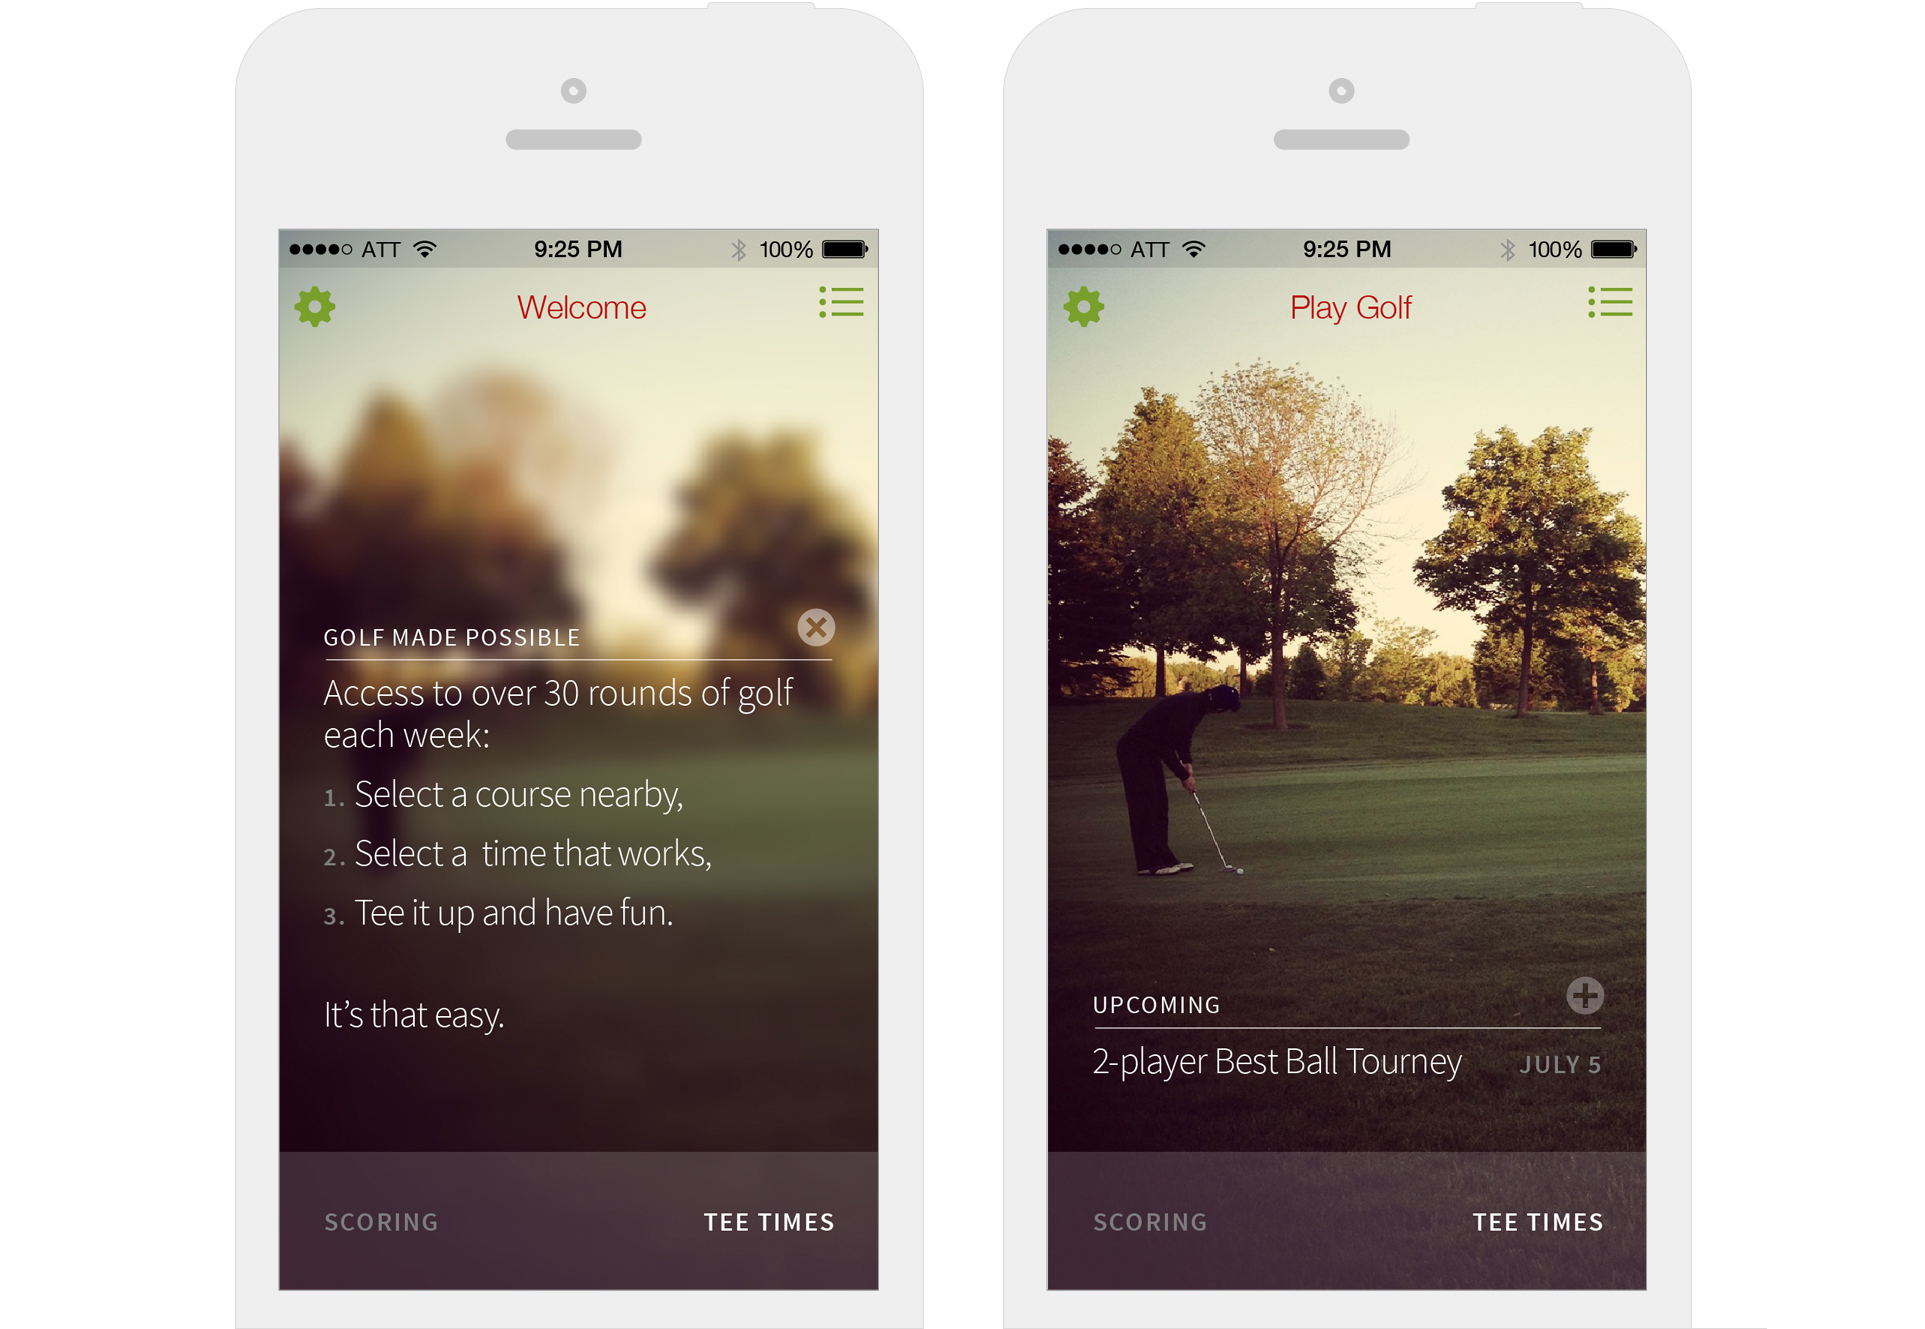
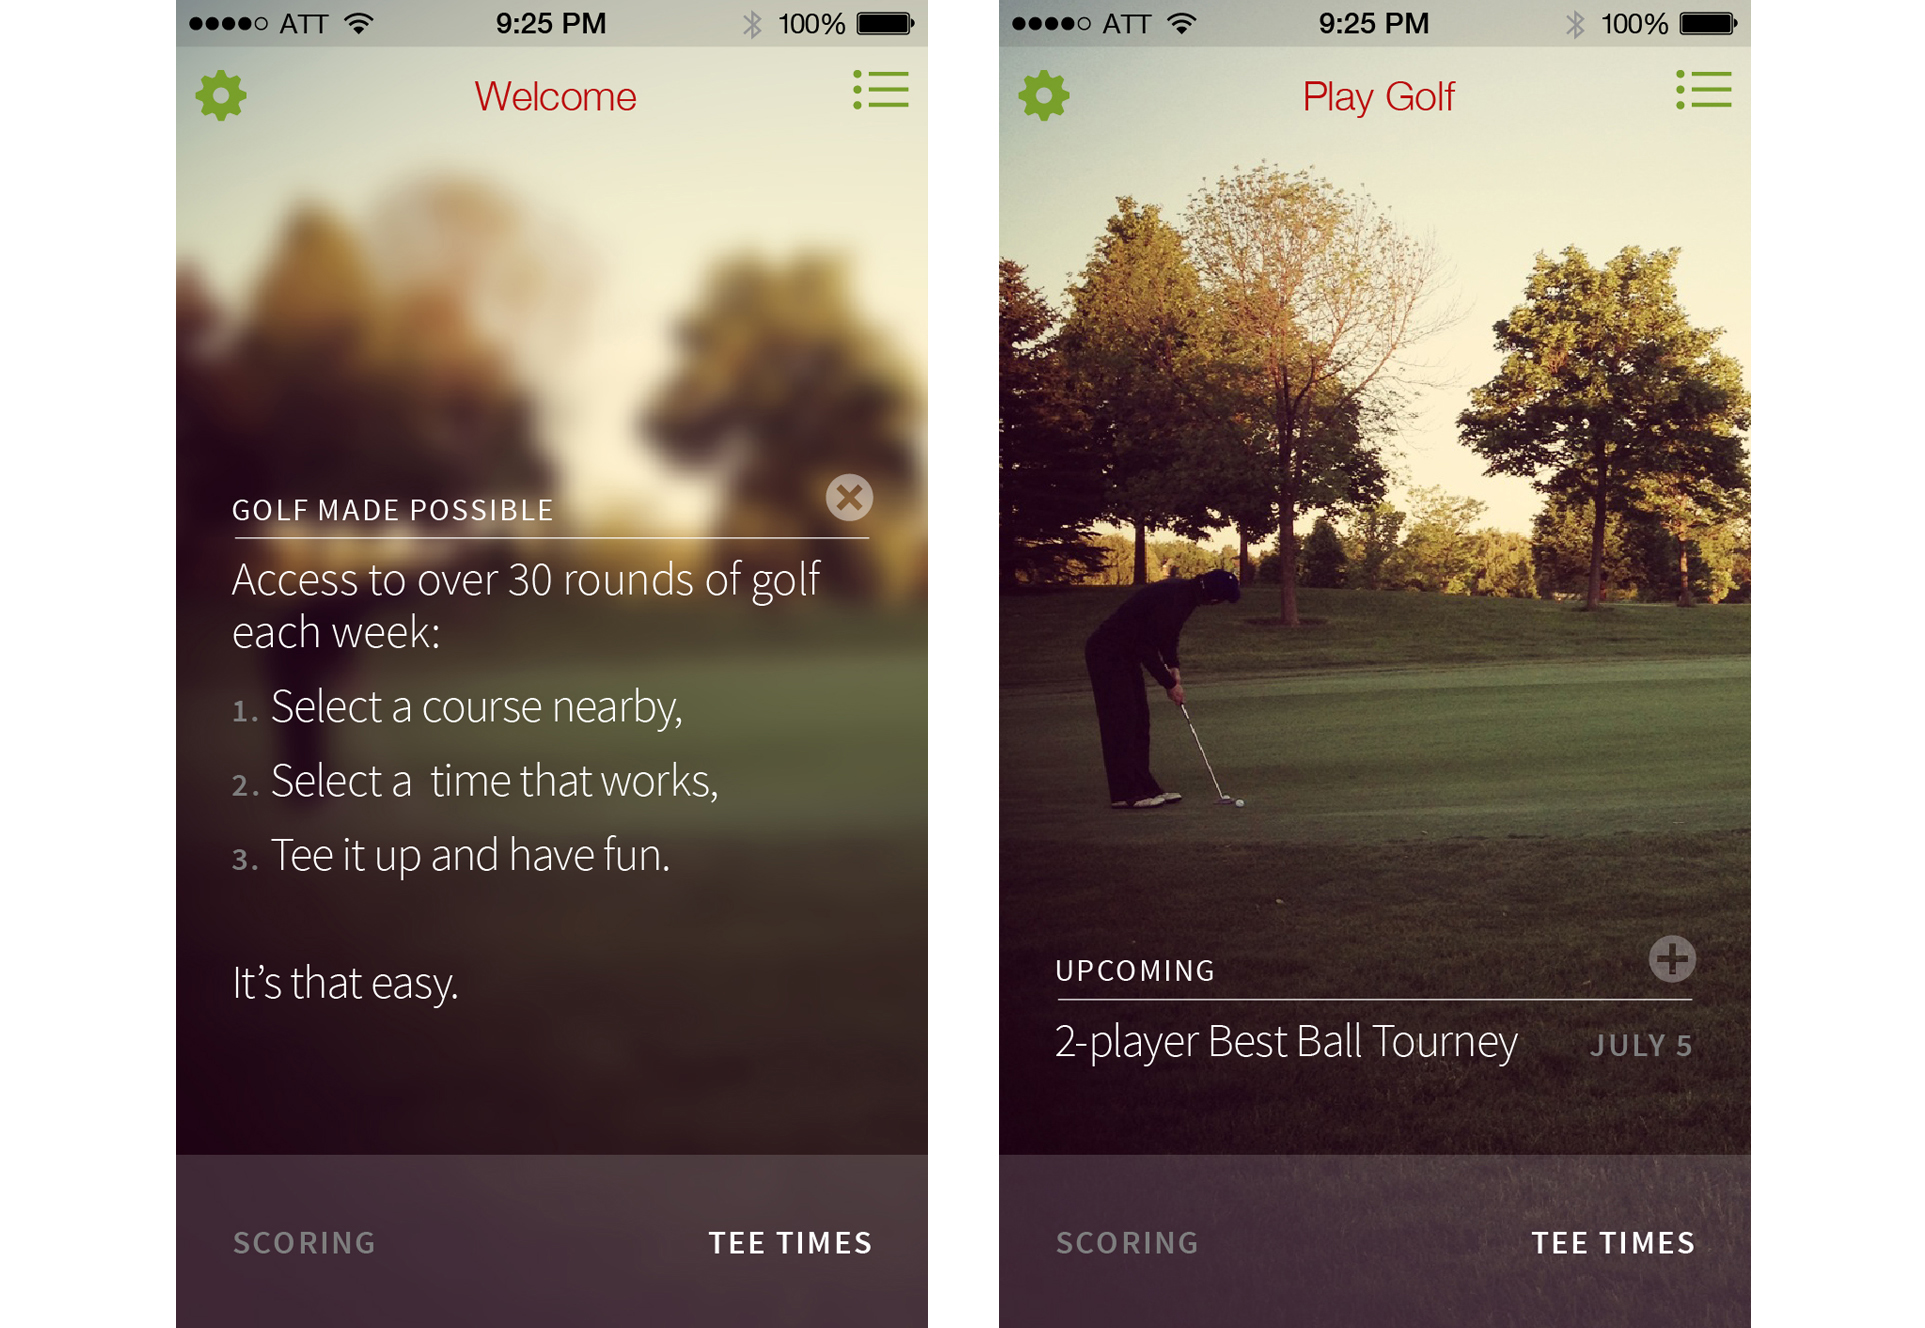
tweaking images
tweaking images

diff --git a/port/index.html b/port/index.html
@@ -353,11 +353,11 @@ to accelerate <br> thinking. For me – it’s both writing <br>and sketching.</
 <!-- image slider and nav --> 
 <div class="banner">
   <ul>
-    <li><img src="images/dbn_app1.jpg" width='700' height='450'></li>
-    <li><img src="images/dbn_app2.jpg" width='700' height='450'></li>
-    <li><img src="images/dbn_app3.jpg" width='700' height='450'></li>
-    <li><img src="images/dbn_app4.jpg" width='700' height='450'></li>
-    <li><img src="images/dbn_app5.jpg" width='700' height='450'></li>
+    <li><img src="images/dbn_app1.jpg" width='700' height='483'></li>
+    <li><img src="images/dbn_app2.jpg" width='700' height='483'></li>
+    <li><img src="images/dbn_app3.jpg" width='700' height='483'></li>
+    <li><img src="images/dbn_app4.jpg" width='700' height='483'></li>
+    <li><img src="images/dbn_app5.jpg" width='700' height='483'></li>
   </ul>
 </div>
 
